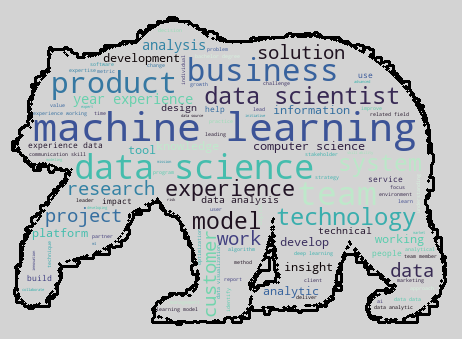
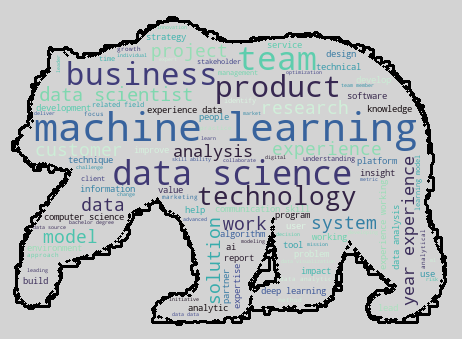
updated mako and crest seaborne color schemes

Changed region(s): [[0.0303, 0.059, 0.9394, 0.944]]

diff --git a/nlp_main.py b/nlp_main.py
@@ -133,6 +133,8 @@ def clean_terms_for_nlp(series_of_interest):
     text = (unicodedata.normalize('NFKD', text).encode('ascii', 'ignore').decode('utf-8', 'ignore').lower())
     words = re.sub(r'[^\w\s]', '', text).split()
     
+    ####!!!! START HERE AND CREATE THE FIND AND REPLACE DICTIONARY FOR THE KEY SKILLS LISTS
+    
     # add additional stopwords to nltk default stopword list; counts between 20 and 50 are evaluated but not included in the lists
     # counts of 19 and below are neither evaluated nor included in the stopword list or skill lists
     additional_stopwords = sorted(list(set(['14042', '3rd', '401k', '50', '500', 'a16z', 'able', 'accepted',
@@ -1270,7 +1272,7 @@ def clean_terms_for_nlp(series_of_interest):
 
 def clean_skill_lists_for_nlp():
     
-    # establish lists for nlp filtering
+    # establish credential and skill lists for nlp filtering
     ds_cred_terms = ['ability', 
                      '1',
                      '2',
@@ -3016,7 +3018,7 @@ def visualize_n_grams(n_grams):
     n_grams_df_sns = n_grams_df.iloc[:20]
     
     # create a horizontal barplot visualizing n_gram counts from greatest to least
-    ax = sns.barplot(x='count', y='grams', data=n_grams_df_sns, orient='h', palette='mako_d') # crest, mako, Blues_d, mako_r, ocean, gist_gray, gist_gray_r, icefire
+    ax = sns.barplot(x='count', y='grams', data=n_grams_df_sns, orient='h', palette='crest_d') # crest, mako, 'mako_d, Blues_d, mako_r, ocean, gist_gray, gist_gray_r, icefire
     ax.set_title('n grams')
 
 
@@ -3047,7 +3049,7 @@ def visualize_word_clouds(terms_for_nlp, series_of_interest):
     word_cloud = WordCloud(max_font_size=50,
                            max_words=100,
                            background_color='lightgray',      # whitesmoke, gainsboro, lightgray, silver
-                           colormap='mako',                  # mako, crest
+                           colormap='crest',                  # mako, crest
                            collocations=False).generate(word_cloud_terms)
     
     # display the word cloud
@@ -3063,7 +3065,7 @@ def visualize_word_clouds(terms_for_nlp, series_of_interest):
     word_cloud_bigrams = WordCloud(max_font_size=50,
                                    max_words=100,
                                    background_color='lightgray',      # whitesmoke, gainsboro, lightgray, silver
-                                   colormap='mako',                  # mako, crest
+                                   colormap='crest',                  # mako, crest
                                    collocation_threshold=30).generate(word_cloud_terms)
     
     # display the bigram word cloud
@@ -3168,6 +3170,10 @@ def utilities(terms_for_nlp):
     strip_end = [x[:-3] for x in n_grams.index]
     clean_ngram_list = [x[2:] for x in strip_end]
     print(clean_ngram_list)
+    
+    # working on extracting hex colors from seaborn palletes
+    pal = sns.color_palette('mako')
+    print(pal.as_hex())
 
 
 ###### MAIN EXECUTION BELOW ######
@@ -3208,10 +3214,10 @@ def main_program(csv_path):
     # visualize n_grams as a horizontal bar plot
     visualize_n_grams(n_grams)
 
-    return df, series_of_interest, terms_for_nlp
+    return df, series_of_interest, terms_for_nlp, n_grams
 
 
-df, series_of_interest, terms_for_nlp = main_program(csv_path)
+df, series_of_interest, terms_for_nlp, n_grams = main_program(csv_path)
 
 # close time calculation
 end_time = time.time()
@@ -3226,15 +3232,12 @@ del start_time, end_time
 # finalize bar plot of count of jobs in states
 # for visualization: branded for NLP/ML insights 
 # find a better mask for the word cloud
-# parse the date_scraped field for the parent scrape (e.g., ds, ml, etc.)
-# expand stopwords, aggressively
 # create searches for key lists
 # create list of cloud tech
 # word clouds based only on the verbs in the job descriptions
 # hold = df[df['job_description'].str.contains('attention to detail')]
 # hold = df[df['job_description'].str.contains('|'.join(['passion','collaborate','teamwork','team work', 'interpersonal','flexibility','flexible','listening','listener','listen','empathy','empathetic']))]
 # create seaborne charts for n-grams
-# add timing
 # figure out how to brand-color the word clouds (probably just use the mako colors as my brand colors)
 # select favorite sns color pallete, and maybe use that for the branding colors!
 # determine optimal sns chat size
@@ -3250,9 +3253,7 @@ del start_time, end_time
 # consider a swarm plot for ....something, with job title or skill along the x_axis and some count/value along the y-axis,
   # maybe count of ds skills FOR THE UNICORN INDEX; yes, count the number of skills cited in each job listing, parsed by job title (which
   # has been collapsed and simplified)
-# will need to make an index of key skills based on the n_gram results
 # create a functionality to count how many jobs cite a specifc term I searched; probably just search the series with lov=c
-# really need to grind out all stop words that aren't relevant
 # can break skill lists into why/how/what subsets later
 # think about a graphic showing a tree from a key word, like 'experience' linking to the highest bigrams on the right
 
